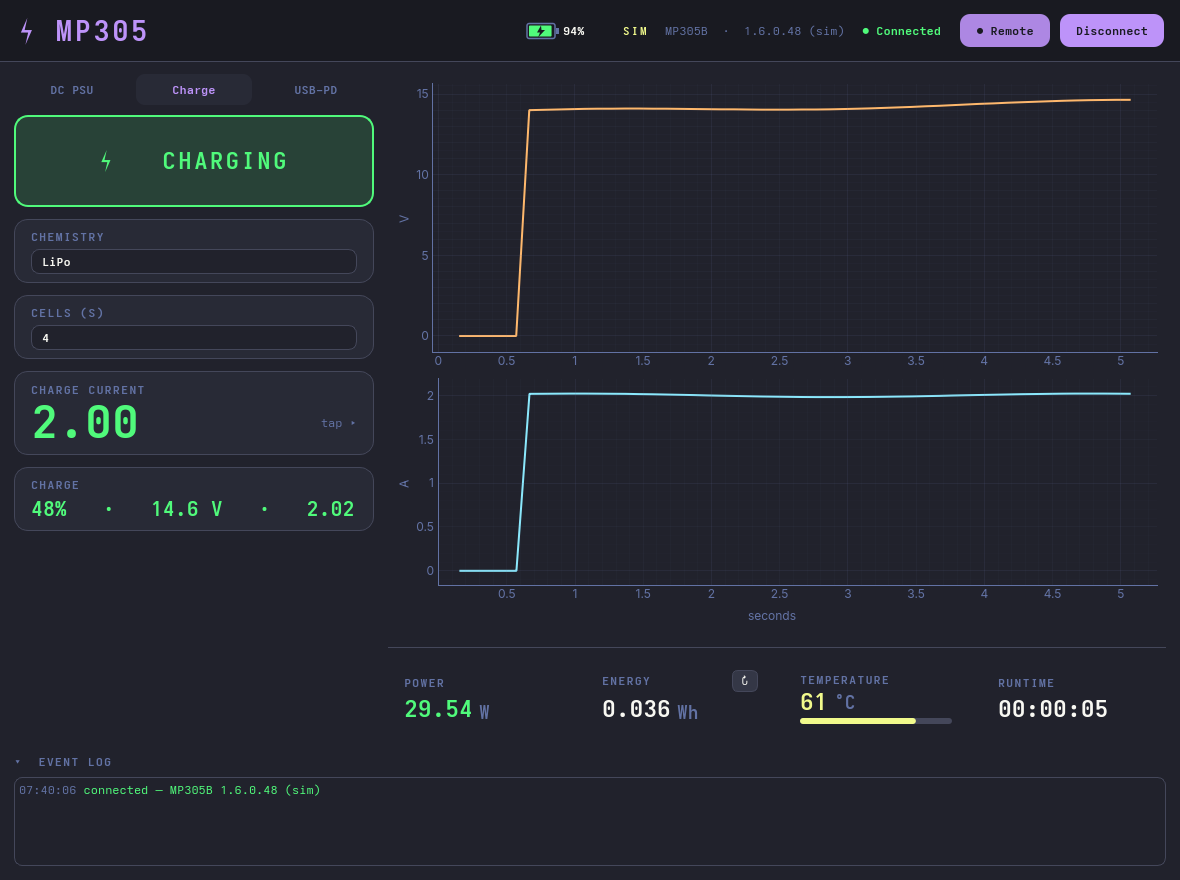
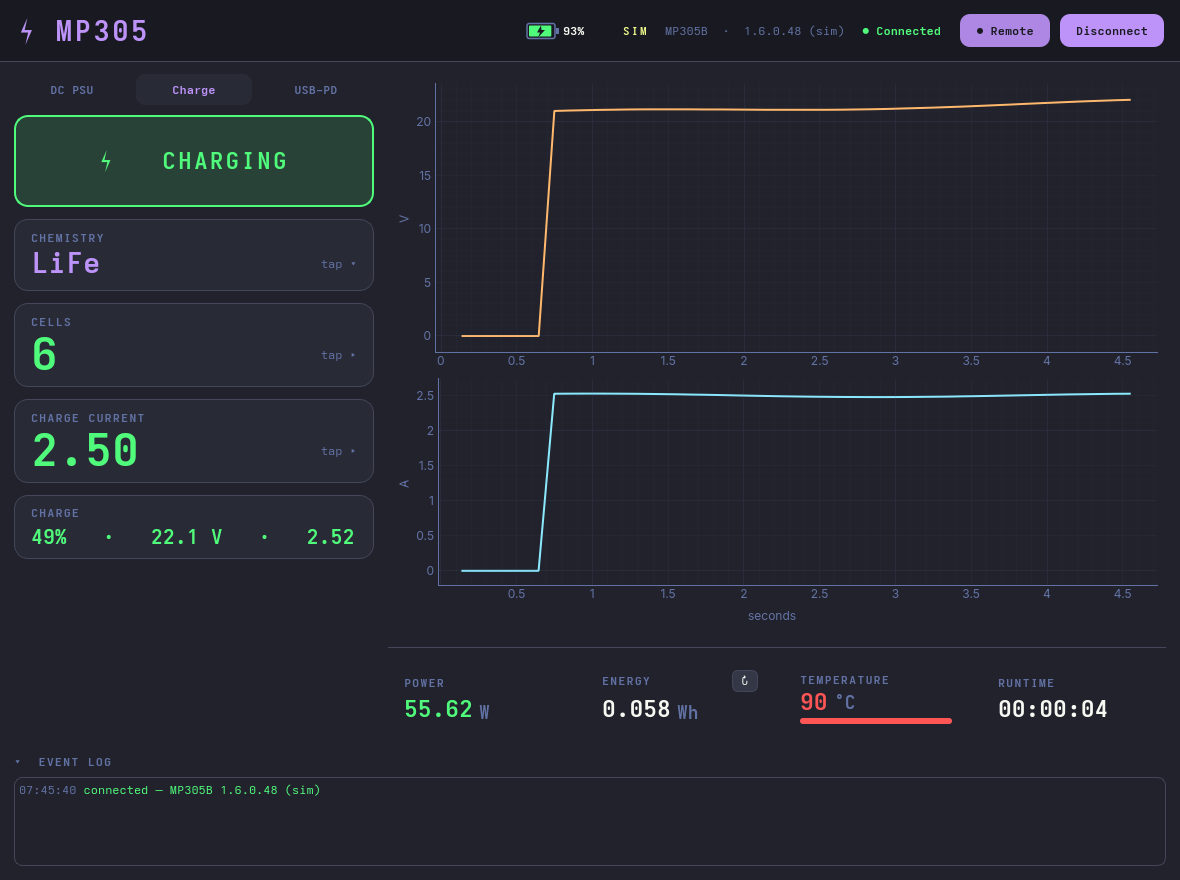
GUI Charge/USB-PD: tap-to-pick chemistry + numeric cells card; flat e-marker + 0.5.1
- chemistry is now a whole-card button opening a pointer-friendly dropdown (Picker); cells is
  a numeric keypad card like the other inputs (dropped the ugly combo boxes)
- USB-PD: e-marker cable read-out is flat (read-only); PD-profile rows read as clickable
  buttons — clickable=bordered, read-only=flat, consistently
- refreshed charge/usbpd screenshots; bump 0.5.1 (library unchanged)

diff --git a/gui/mp305gui/app.py b/gui/mp305gui/app.py
@@ -21,7 +21,7 @@ from PyQt6.QtCore import (
 from PyQt6.QtGui import QColor, QPainter, QPen, QFont, QPolygonF, QPainterPath
 from PyQt6.QtWidgets import (
     QApplication, QWidget, QFrame, QLabel, QPushButton, QHBoxLayout, QVBoxLayout,
-    QGridLayout, QDialog, QPlainTextEdit, QSizePolicy, QStackedWidget, QButtonGroup, QComboBox,
+    QGridLayout, QDialog, QPlainTextEdit, QSizePolicy, QStackedWidget, QButtonGroup,
 )
 
 from .theme import C, STYLESHEET
@@ -458,6 +458,67 @@ class ChannelCard(QFrame):
         self.setStyleSheet(self._act if self._active else self._base)
 
 
+class Picker(QDialog):
+    """Pointer-friendly dropdown: a vertical list of big option buttons — tap one to pick."""
+    def __init__(self, title, options, current, parent=None):
+        super().__init__(parent); self.setModal(True); self._val = current
+        v = QVBoxLayout(self); v.setContentsMargins(16, 16, 16, 16); v.setSpacing(8)
+        v.addWidget(_lab(title, "cardTitle"))
+        for i, opt in enumerate(options):
+            b = QPushButton(str(opt)); b.setFixedHeight(44); b.setFont(mono(14))
+            b.setCursor(Qt.CursorShape.PointingHandCursor)
+            if i == current:
+                b.setObjectName("primary")
+            b.clicked.connect(lambda _, idx=i: (setattr(self, "_val", idx), self.accept()))
+            v.addWidget(b)
+
+    def value(self):
+        return self._val
+
+
+class ChoiceCard(QFrame):
+    """A whole-card button showing the current choice; tap opens a dropdown (Picker)."""
+    changed = pyqtSignal(int)
+
+    def __init__(self, title, options, color):
+        super().__init__(); self.setObjectName("chan")
+        self._title, self._options, self._color, self._idx = title, options, color, 0
+        self._base = f"#chan{{background:{C['card']};border:1px solid {C['stroke']};border-radius:14px;}}"
+        self._hover = f"#chan{{background:{C['card_hi']};border:1px solid {C['hover']};border-radius:14px;}}"
+        self.setStyleSheet(self._base); self.setCursor(Qt.CursorShape.PointingHandCursor)
+        self.setFixedHeight(72)
+        v = QVBoxLayout(self); v.setContentsMargins(16, 10, 16, 10); v.setSpacing(2)
+        v.addWidget(_lab(title, "cardTitle"))
+        row = QHBoxLayout()
+        self.val = QLabel(str(options[0]) if options else "—"); self.val.setFont(mono(22))
+        self.val.setStyleSheet(f"color:{color};")
+        row.addWidget(self.val); row.addStretch(1); row.addWidget(_lab("tap ▾", "sub"))
+        v.addLayout(row)
+
+    def value(self):
+        return self._idx
+
+    def set_index(self, i):
+        if self._options:
+            self._idx = max(0, min(len(self._options) - 1, int(i)))
+            self.val.setText(str(self._options[self._idx]))
+
+    def _open(self):
+        dlg = Picker(self._title, self._options, self._idx, self)
+        if dlg.exec():
+            self.set_index(dlg.value()); self.changed.emit(self._idx)
+
+    def mouseReleaseEvent(self, e):
+        if e.button() == Qt.MouseButton.LeftButton and self.rect().contains(e.pos()):
+            self._open()
+
+    def enterEvent(self, e):
+        self.setStyleSheet(self._hover)
+
+    def leaveEvent(self, e):
+        self.setStyleSheet(self._base)
+
+
 class Chip(QPushButton):
     def __init__(self, text):
         super().__init__(text)
@@ -643,33 +704,18 @@ class MainWindow(QWidget):
         pv.addWidget(grp); v.addWidget(pc)
         return page
 
-    def _combo_card(self, title, items, on_change):
-        card = QFrame(); card.setProperty("class", "card"); card.setFixedHeight(64)
-        cl = QVBoxLayout(card); cl.setContentsMargins(16, 8, 16, 8); cl.setSpacing(4)
-        cl.addWidget(_lab(title, "cardTitle"))
-        combo = QComboBox(); combo.addItems([str(x) for x in items])
-        combo.setCursor(Qt.CursorShape.PointingHandCursor)
-        combo.setStyleSheet(
-            f"QComboBox{{background:{C['bg']};border:1px solid {C['stroke']};border-radius:8px;"
-            f"padding:3px 10px;color:{C['text']};font-weight:700;}}"
-            f"QComboBox::drop-down{{border:none;width:22px;}}"
-            f"QComboBox QAbstractItemView{{background:{C['card']};color:{C['text']};"
-            f"selection-background-color:{C['accent']};selection-color:{C['panel']};outline:none;}}")
-        combo.currentIndexChanged.connect(lambda i: None if self._sync else on_change(i))
-        cl.addWidget(combo)
-        return card, combo
-
     def _charge_page(self):
         page = QWidget(); v = QVBoxLayout(page); v.setContentsMargins(0, 0, 0, 0); v.setSpacing(12)
         self.chg_btn = OutputButton("⚡   CHARGING", "⚡   START CHARGE")
         self.chg_btn.toggled.connect(lambda on: None if self._sync else self.reqCharging.emit(on))
         v.addWidget(self.chg_btn)
-        chem_card, self.cmb_chem = self._combo_card("CHEMISTRY", CHEMS,
-                                                    lambda i: self.reqCharge.emit({"chem": i}))
-        v.addWidget(chem_card)
-        cells_card, self.cmb_cells = self._combo_card("CELLS (S)", list(range(1, 13)),
-                                                      lambda i: self.reqCharge.emit({"cells": i + 1}))
-        v.addWidget(cells_card)
+        self.ch_chem = ChoiceCard("CHEMISTRY", CHEMS, C["accent"])
+        self.ch_chem.changed.connect(lambda i: None if self._sync else self.reqCharge.emit({"chem": i}))
+        v.addWidget(self.ch_chem)
+        self.ch_cells = ChannelCard("CELLS", "S", 24, C["pow"], 0, measured=False)
+        self.ch_cells.set_setpoint(3)
+        self.ch_cells.changed.connect(lambda x: None if self._sync else self.reqCharge.emit({"cells": int(x)}))
+        v.addWidget(self.ch_cells)
         self.ch_chgA = ChannelCard("CHARGE CURRENT", "A", 10.0, C["pow"], 2, measured=False)
         self.ch_chgA.set_setpoint(1.0)
         self.ch_chgA.changed.connect(lambda x: None if self._sync else self.reqCharge.emit({"current": x}))
@@ -688,8 +734,8 @@ class MainWindow(QWidget):
         self._pdo_wrap = QVBoxLayout(); self._pdo_wrap.setSpacing(6); v.addLayout(self._pdo_wrap)
         self._pdo_btns = []
         v.addStretch(1)
-        em = QFrame(); em.setProperty("class", "card"); em.setFixedHeight(60)
-        eml = QVBoxLayout(em); eml.setContentsMargins(16, 8, 16, 8); eml.setSpacing(4)
+        em = QFrame(); em.setFixedHeight(58)        # flat: e-marker is read-only cable info
+        eml = QVBoxLayout(em); eml.setContentsMargins(2, 8, 2, 0); eml.setSpacing(4)
         eml.addWidget(_lab("USB-C CABLE", "cardTitle"))
         self._emark_lab = QLabel("—"); self._emark_lab.setFont(mono(10, bold=False))
         self._emark_lab.setStyleSheet(f"color:{C['curr']};"); self._emark_lab.setWordWrap(True)
@@ -927,8 +973,8 @@ class MainWindow(QWidget):
             if self.stack.currentIndex() != page:
                 self.stack.setCurrentIndex(page)
         # Charge panel
-        self.cmb_chem.setCurrentIndex(min(self.cmb_chem.count() - 1, st.get("chem", 0)))
-        self.cmb_cells.setCurrentIndex(max(0, min(self.cmb_cells.count() - 1, st.get("cells", 1) - 1)))
+        self.ch_chem.set_index(st.get("chem", 0))
+        self.ch_cells.set_setpoint(st.get("cells", 1))
         self.ch_chgA.set_setpoint(st.get("charge_current", 0.0))
         charging = bool(st.get("charging_ext", False))
         if self.chg_btn.isChecked() != charging:

diff --git a/python/pymp305/__init__.py b/python/pymp305/__init__.py
@@ -52,4 +52,4 @@ __all__ = [
     "MODEL_DC", "MODEL_PROGRAMMABLE", "MODEL_USB_PD", "MODEL_CHARGE",
     "protocol", "commands", "ota", "Firmware", "IntelHexFirmware", "BootInfo",
 ]
-__version__ = "0.5.0"
+__version__ = "0.5.1"

diff --git a/CHANGELOG.md b/CHANGELOG.md
@@ -4,6 +4,14 @@ All notable changes to `pymp305`. Versions follow semver (pre-1.0: minor = featu
 
 > ⚠️ Nothing here has been validated against physical hardware yet — see the README banner.
 
+## 0.5.1
+
+### Changed
+- **GUI Charge/USB-PD polish** (consistent input language): chemistry is now a whole-card
+  button that opens a pointer-friendly **dropdown** (`Picker`), and cells is a **numeric keypad
+  card** like the other inputs — no more combo boxes. In USB-PD, the e-marker cable read-out is
+  **flat** (read-only) while the PD-profile rows read as clickable buttons.
+
 ## 0.5.0
 
 ### Added